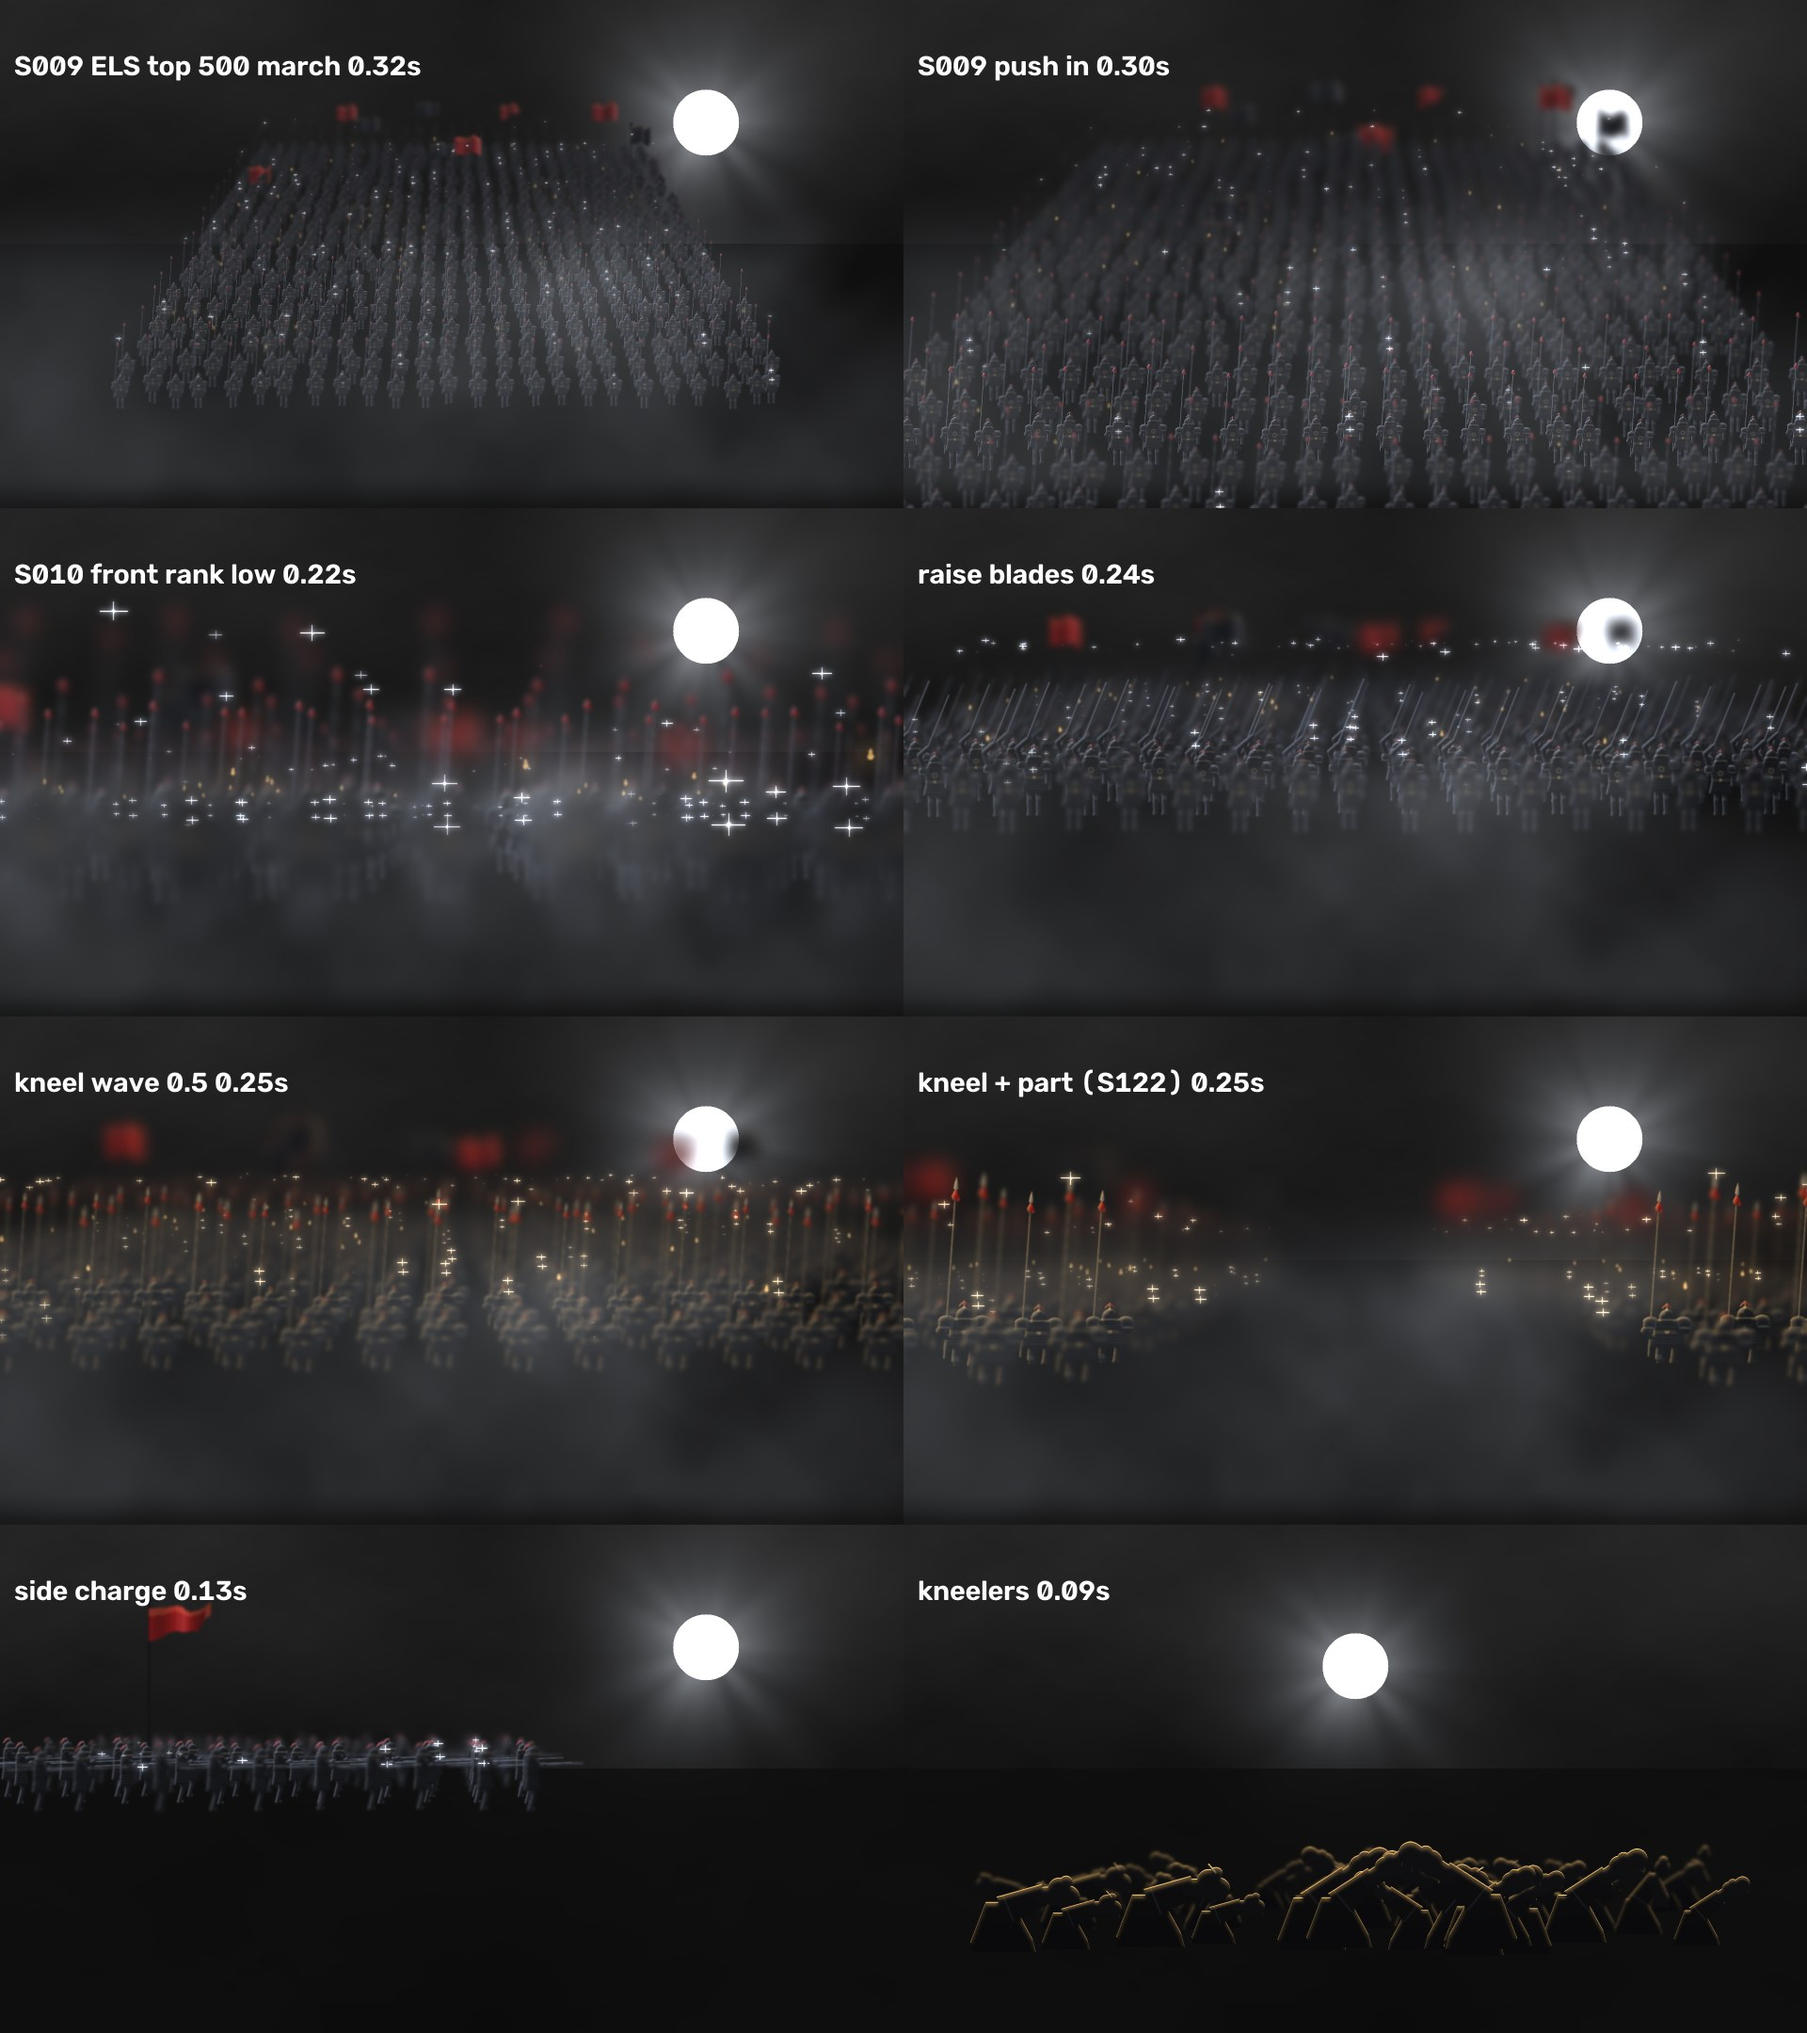
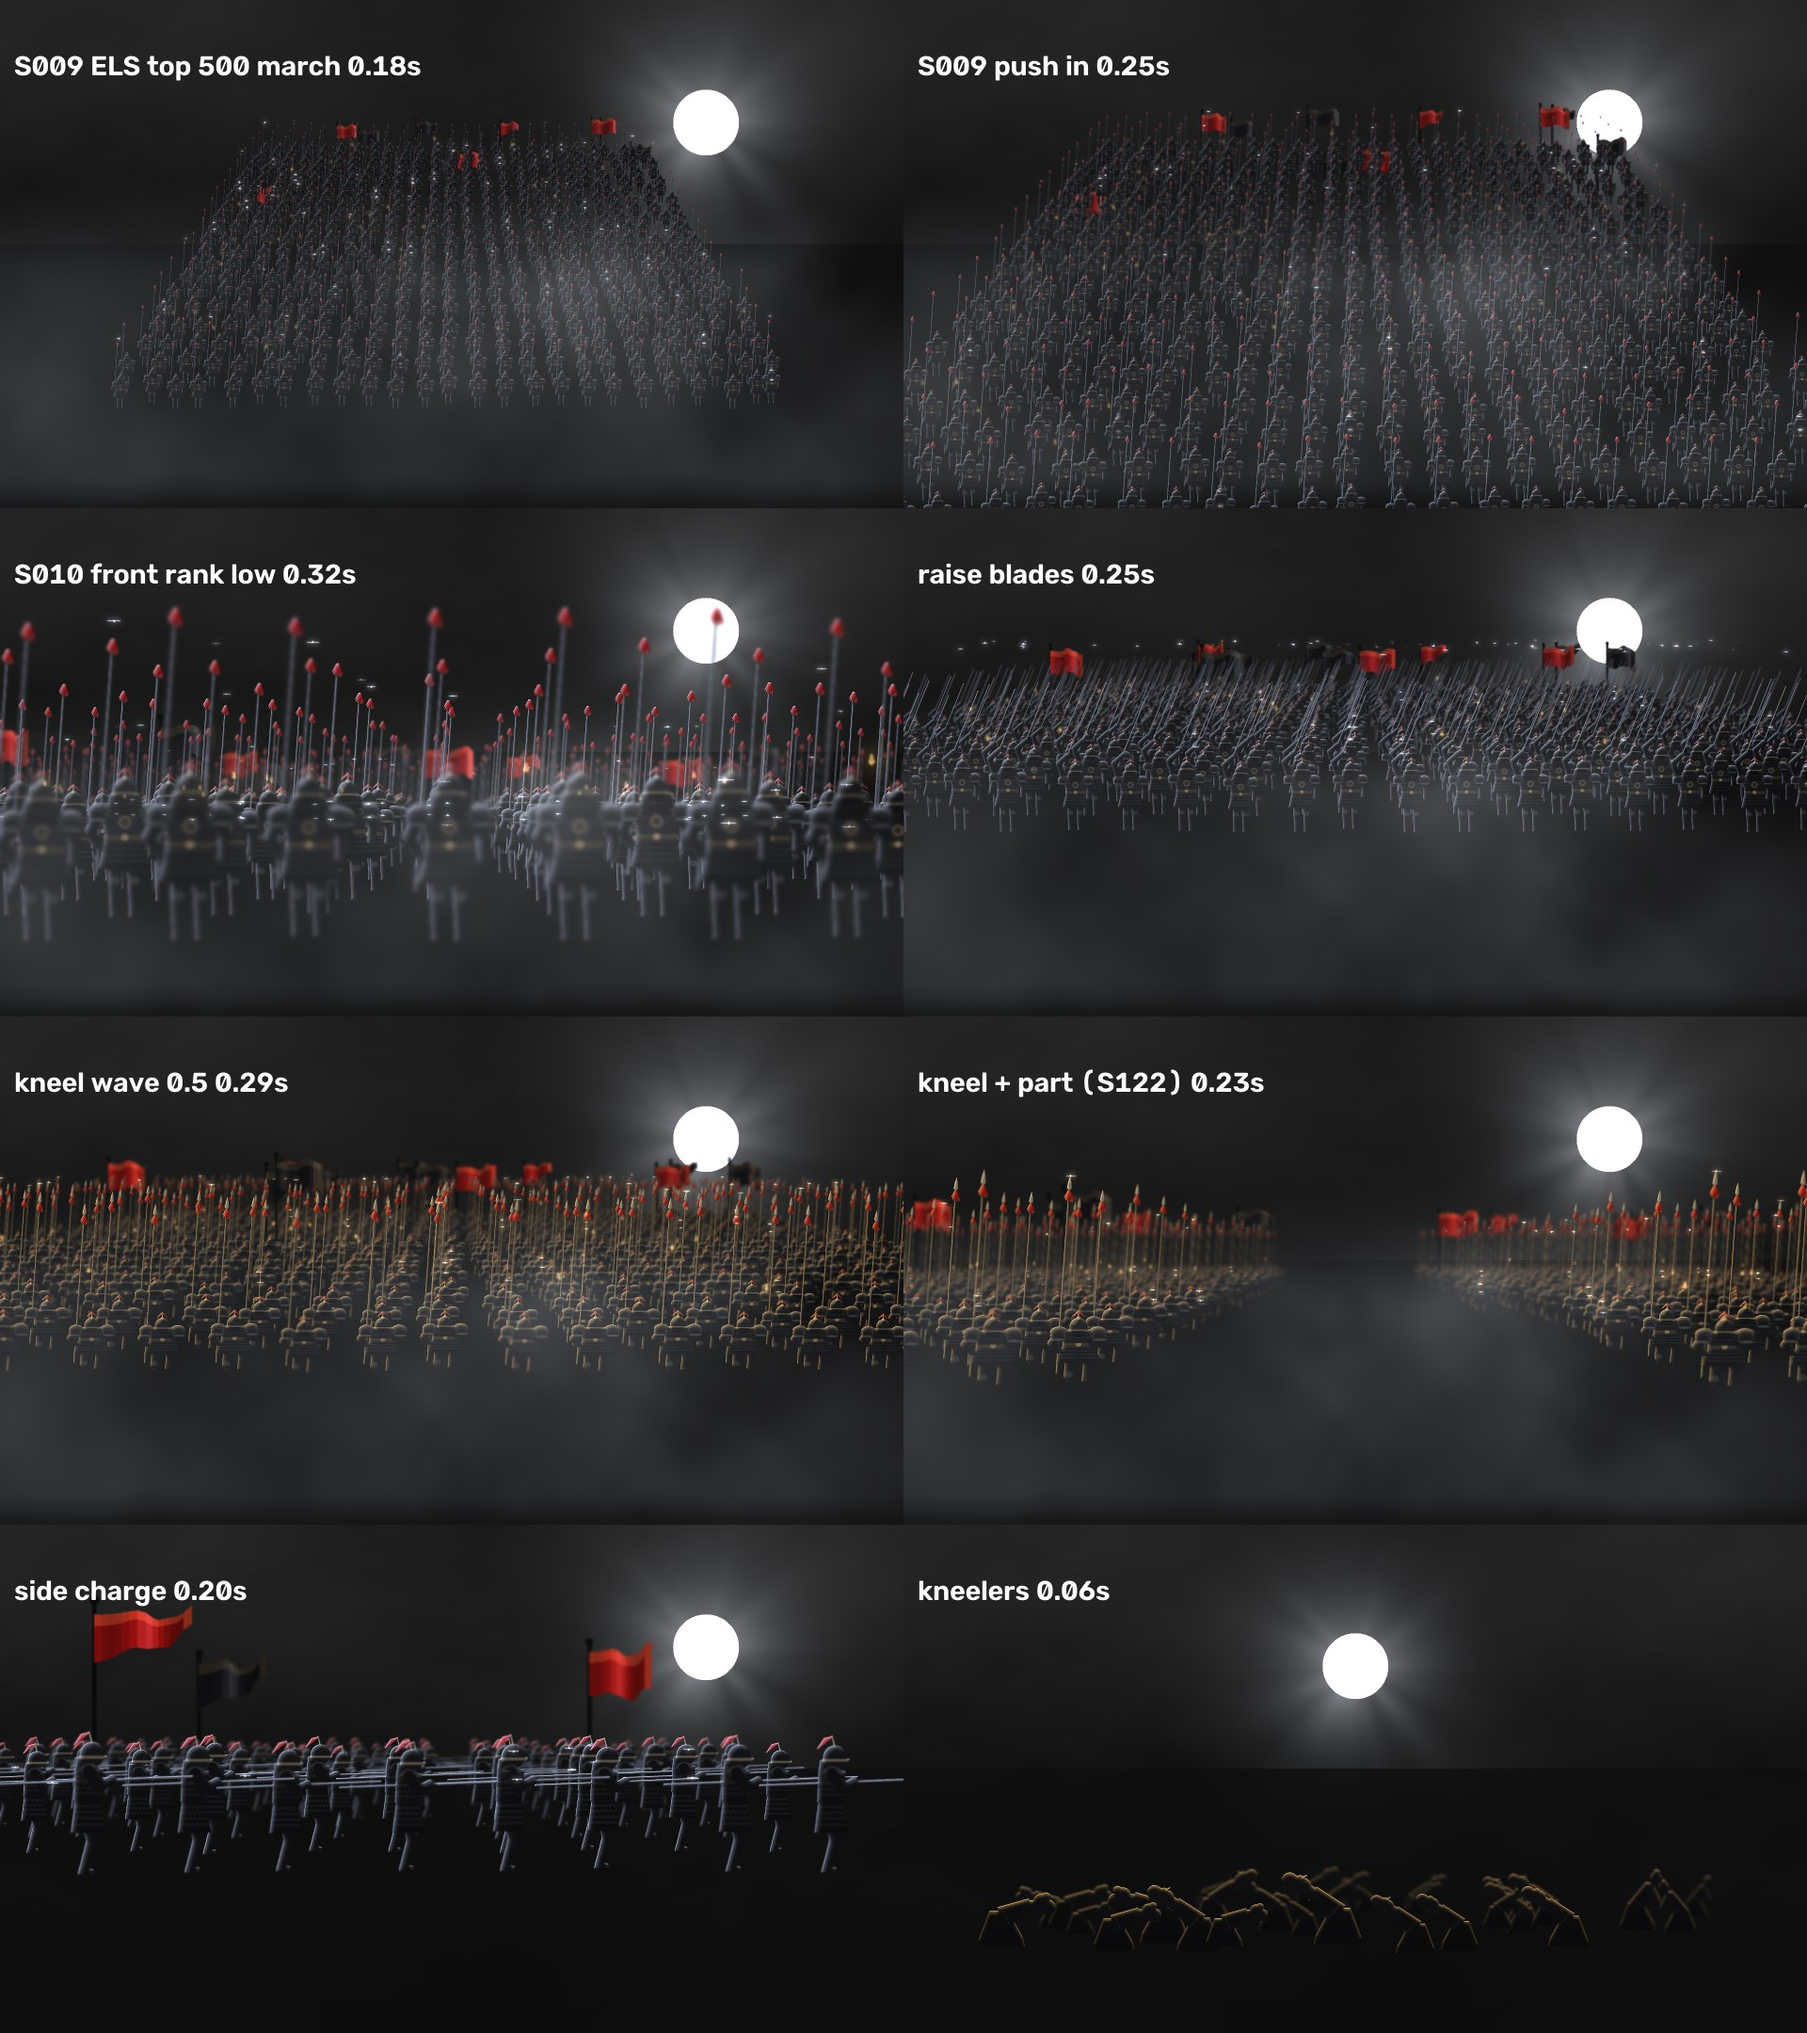
角色组: crowd 五百重甲方阵（景深分层/推拉/甲光/旗帜/火把/齐步/举枪/跪/让路/侧面冲锋）+跪地人群

diff --git a/lib/crowd.py b/lib/crowd.py
@@ -135,7 +135,7 @@ def soldier_sprite(phase=0.0, arm=0.0, kneel=0.0, bow=0.0, weapon='spear', view=
         knee = (cx + sx * (7 + 2 * kneel), (25 + 6 * lift) * (1 - kL) + 5 * kL + (24 - 25) * (kneel if sx > 0 else 0))
         ank = (cx + sx * 7, 3 + 5 * lift * (1 - kneel))
         if sx > 0 and kneel > 0: knee = (cx + 10, 25 - 1 * kneel)
-        F.cap(hip, knee, 4.6, 0.06, r2=4.0); F.cap(knee, ank, 4.0, 0.05, r2=3.2)
+        F.cap(hip, knee, 5.6, 0.06, r2=4.8); F.cap(knee, ank, 4.8, 0.05, r2=3.8)
         F.poly([(ank[0] - 3.4 * 1, ank[1] + 1.5), (ank[0] + 3.6, ank[1] + 1.5), (ank[0] + 4.5 * sx * 0.3 + 4, ank[1] - 3.5),
                 (ank[0] - 4.2, ank[1] - 3.5)], 0.08)
         F.ell((knee[0], knee[1] + 1), (3.6, 3.0), tone=0.35)        # 护膝
@@ -463,11 +463,17 @@ class Army:
         f = cam.get('f', 1500); s = f / bd / k         # 像素/米
         x0, yb, yt = px[0] / k, py[0] / k, py[1] / k
         fd = 1 - math.exp(-bd / fog_dist)
-        pole = np.zeros_like(bufA)
-        cv2.line(pole, (int(x0 * 8), int(yb * 8)), (int(x0 * 8), int((yt - 0.3 * s) * 8)), 1.0, max(1, int(0.07 * s * 1.0) + 1), cv2.LINE_AA, 3)
-        cv2.circle(pole, (int(x0 * 8), int((yt - 0.3 * s) * 8)), int(max(1, 0.1 * s) * 8), 1.0, -1, cv2.LINE_AA, 3)
-        a = pole[..., None]
-        bufC[:] = bufC * (1 - a) + (INK * (1 - fd) + fogc * fd) * a; bufA[:] = bufA * (1 - pole) + pole
+        hb, wb = bufA.shape
+        xa, xb = int(max(0, x0 - 0.3 * s - 3)), int(min(wb, x0 + 0.3 * s + 4))
+        ya, yb2 = int(max(0, yt - 0.5 * s - 3)), int(min(hb, yb + 3))
+        if xb > xa and yb2 > ya:
+            pole = np.zeros((yb2 - ya, xb - xa), np.float32)
+            cv2.line(pole, (int((x0 - xa) * 8), int((yb - ya) * 8)), (int((x0 - xa) * 8), int((yt - 0.3 * s - ya) * 8)), 1.0,
+                     max(1, int(0.07 * s) + 1), cv2.LINE_AA, 3)
+            cv2.circle(pole, (int((x0 - xa) * 8), int((yt - 0.3 * s - ya) * 8)), int(max(1, 0.1 * s) * 8), 1.0, -1, cv2.LINE_AA, 3)
+            a = pole[..., None]
+            bufC[ya:yb2, xa:xb] = bufC[ya:yb2, xa:xb] * (1 - a) + (INK * (1 - fd) + fogc * fd) * a
+            bufA[ya:yb2, xa:xb] = bufA[ya:yb2, xa:xb] * (1 - pole) + pole
         nu, nv = 14, 4
         u = np.linspace(0, 1, nu + 1); v = np.linspace(0, 1, nv + 1)
         ww, hh = b['w'] * s, b['hh'] * s
